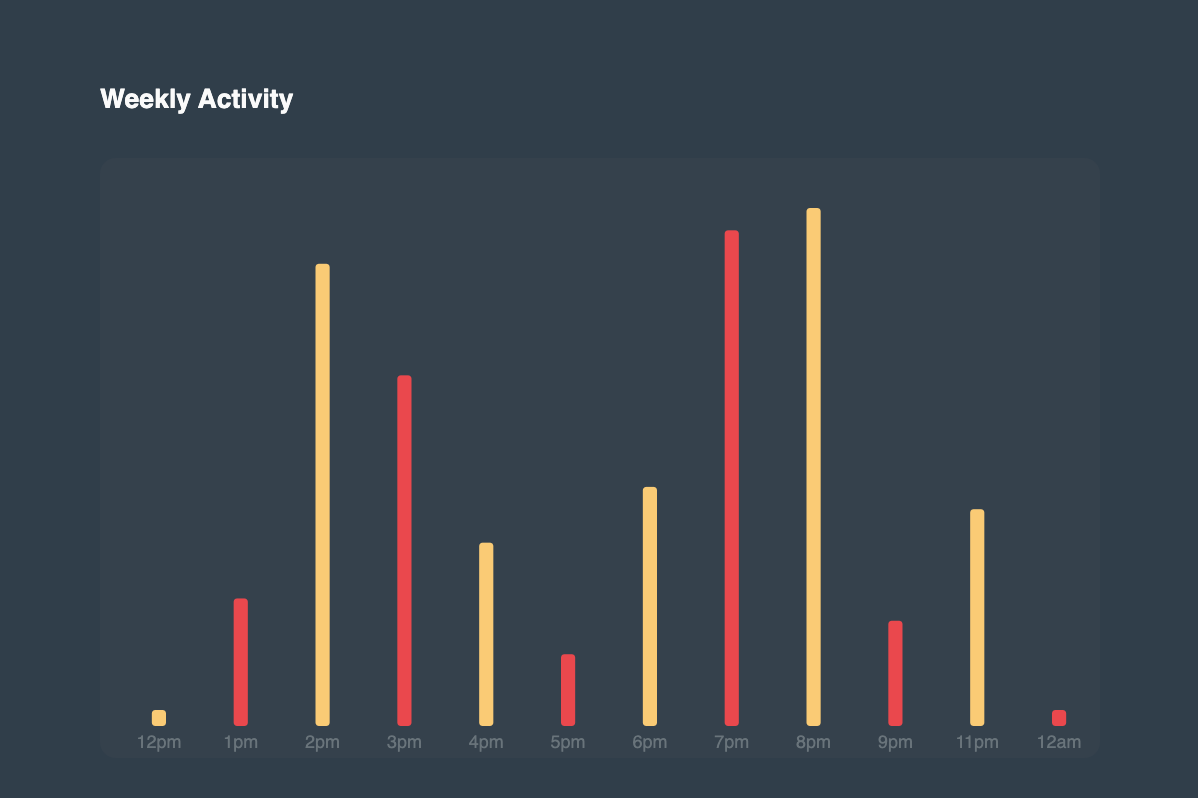
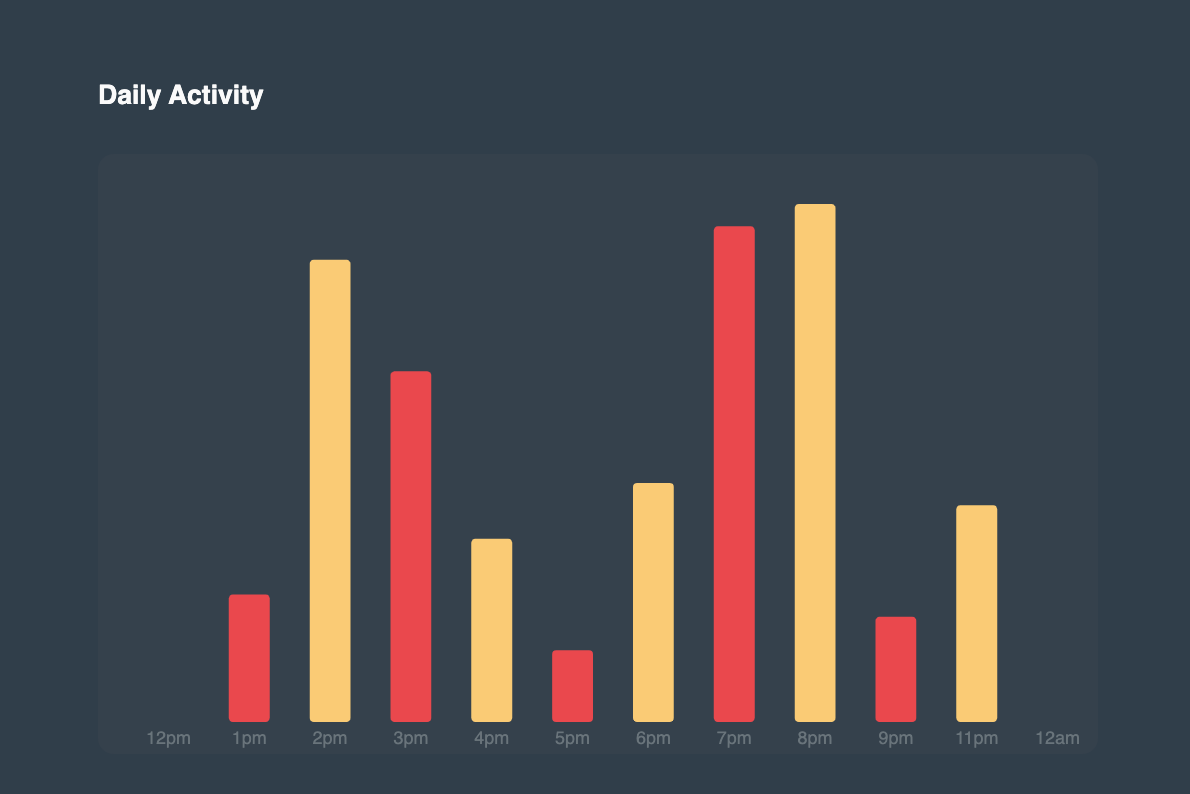
readme cleanup

diff --git a/src.html b/src.html
@@ -10,7 +10,7 @@
     <canvas id="bar" style="height: 300px; width: 400px;"></canvas>
     <h2>Simple Bar Chart 2</h2>
     <div style="width: 600px; height: 400px; background-color: #2f3e4a; display: flex; justify-content: center; align-items: center; flex-direction: column;">
-        <h5 style="color: #fafafa; width: 500px; text-align: left;">Weekly Activity</h5>
+        <h5 style="color: #fafafa; width: 500px; text-align: left;">Daily Activity</h5>
         <canvas id="bar2" style="border-radius: 8px;height: 300px; width: 500px;"></canvas>
     </div>
     <script src="./src/SimpleChart.js"></script>

diff --git a/src/SimpleChart.js b/src/SimpleChart.js
@@ -306,6 +306,7 @@ class SimpleBarChart extends SimpleChart {
      * * N = (Width of chart - (yAxis label padding left + yAxis label font size)) / # of bars
      * * xStart = (n - 1) * N + (0.5  * spacing )
      * * Bar Width = Width - (yAxis label padding left + yAxis label font size) - ( spacing * # of bars) / # of bars
+     * 
      * if !fillEvenly:
      * * N = this.barWidth + this.barSpacing
      * * barWidth = this.barWidth
